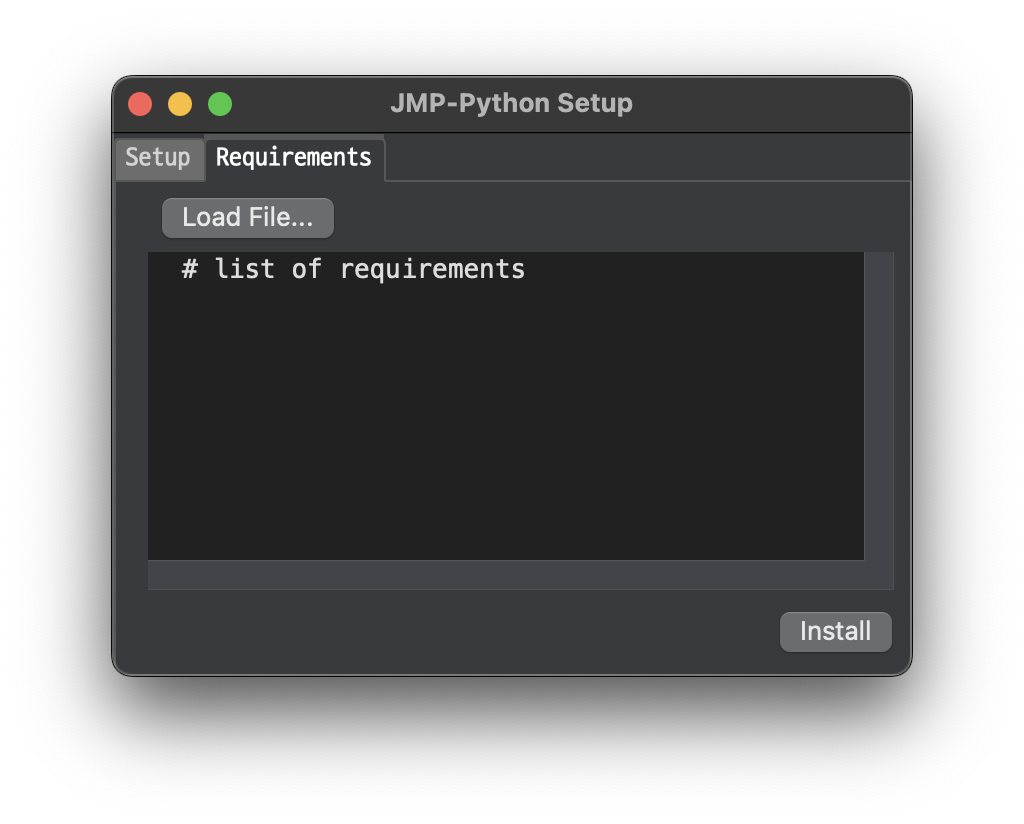
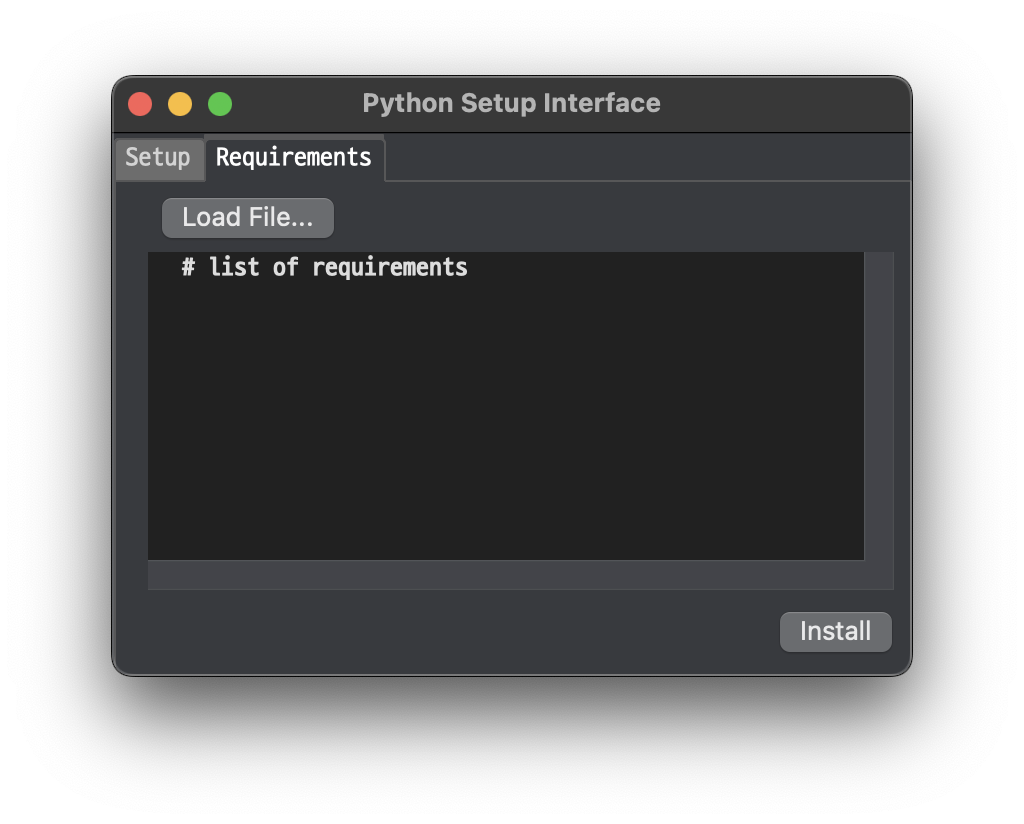
2024/12/06

Changed region(s): [[0.3438, 0.091, 0.6562, 0.1517], [0.1562, 0.3034, 0.5312, 0.3641]]

diff --git a/README.md b/README.md
@@ -19,22 +19,22 @@
 <br/><br/>
 
 ## 🌐 install
-- download latest "jmpaddin" file from <a href="https://github.com/oyajiDev/JMP-Python-Setup-Add-In/releases">releases</a>
+- download latest "jmpaddin" file from <a href="https://github.com/somehitDev/Python-Setup-Interface/releases">releases</a>
 - open "jmpaddin" file in JMP
 
 <br/><br/>
 
 ## 🛠 usage
-- click "Add-In" > "JMP-Python Setup" on menu.
+- click "Add-In" > "Python Setup Interface" on menu.
 
 #### Setup
-<img src="https://github.com/oyajiDev/JMP-Python-Setup-Add-In/blob/main/assets/preview_setup.png?raw=true"></img><br/>
+<img src="https://github.com/somehitDev/Python-Setup-Interface/blob/main/assets/preview_setup.png?raw=true"></img><br/>
 - click "Start" button
 - wait until "Finished!" appears
 
 #### Requirements
 ※ "Setup" must proceed before this job!
-<br/><img src="https://github.com/oyajiDev/JMP-Python-Setup-Add-In/blob/main/assets/preview_require.png?raw=true"></img><br/>
+<br/><img src="https://github.com/somehitDev/Python-Setup-Interface/blob/main/assets/preview_require.png?raw=true"></img><br/>
 - fill scriptbox if "use file" is not selected
 - select "requirements" file if "use file" is selected
 - click "Install" button
